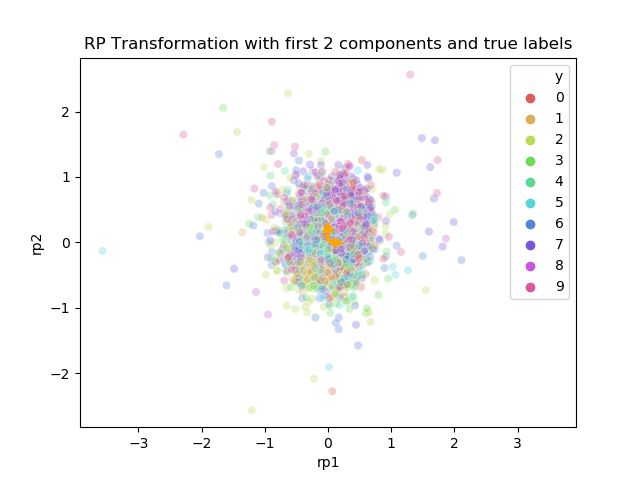
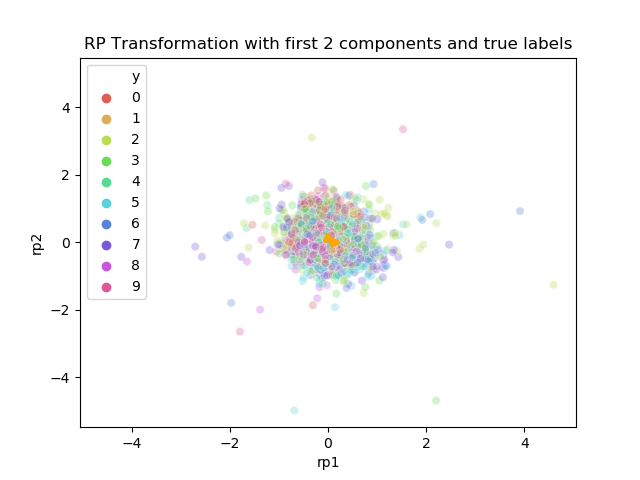
Modify clusters visualizations

diff --git a/Unsupervised_Learning/run_experiments.py b/Unsupervised_Learning/run_experiments.py
@@ -175,8 +175,8 @@ def dimensionality_reduction(x_train, x_test, y_train, **kwargs):
 
     clustering(x_pca[0], x_pca[1], y_train, y_test,
                dataset=dataset + '_pca_reduced',
-               kmeans_n_clusters=kwargs['kmeans_n_clusters'],
-               em_n_clusters=kwargs['em_n_clusters'], em_covariance=kwargs['em_covariance'],
+               kmeans_n_clusters=kwargs['pca_kmeans_n_clusters'],
+               em_n_clusters=kwargs['pca_em_n_clusters'], em_covariance=kwargs['pca_em_covariance'],
                perform_model_complexity=kwargs['perform_model_complexity'])
 
     print('\n--------------------------')
@@ -188,8 +188,8 @@ def dimensionality_reduction(x_train, x_test, y_train, **kwargs):
 
     clustering(x_ica[0], x_ica[1], y_train, y_test,
                dataset=dataset + '_ica_reduced',
-               kmeans_n_clusters=kwargs['kmeans_n_clusters'],
-               em_n_clusters=kwargs['em_n_clusters'], em_covariance=kwargs['em_covariance'],
+               kmeans_n_clusters=kwargs['ica_kmeans_n_clusters'],
+               em_n_clusters=kwargs['ica_em_n_clusters'], em_covariance=kwargs['ica_em_covariance'],
                perform_model_complexity=kwargs['perform_model_complexity'])
 
     print('\n--------------------------')
@@ -201,8 +201,8 @@ def dimensionality_reduction(x_train, x_test, y_train, **kwargs):
 
     clustering(x_kpca[0], x_kpca[1], y_train, y_test,
                dataset=dataset + '_kpca_reduced',
-               kmeans_n_clusters=kwargs['kmeans_n_clusters'],
-               em_n_clusters=kwargs['em_n_clusters'], em_covariance=kwargs['em_covariance'],
+               kmeans_n_clusters=kwargs['kpca_kmeans_n_clusters'],
+               em_n_clusters=kwargs['kpca_em_n_clusters'], em_covariance=kwargs['kpca_em_covariance'],
                perform_model_complexity=kwargs['perform_model_complexity'])
 
     print('\n--------------------------')
@@ -214,8 +214,8 @@ def dimensionality_reduction(x_train, x_test, y_train, **kwargs):
 
     clustering(x_rp[0], x_rp[1], y_train, y_test,
                dataset=dataset + '_rp_reduced',
-               kmeans_n_clusters=kwargs['kmeans_n_clusters'],
-               em_n_clusters=kwargs['em_n_clusters'], em_covariance=kwargs['em_covariance'],
+               kmeans_n_clusters=kwargs['rp_kmeans_n_clusters'],
+               em_n_clusters=kwargs['rp_em_n_clusters'], em_covariance=kwargs['rp_em_covariance'],
                perform_model_complexity=kwargs['perform_model_complexity'])
 
 
@@ -226,39 +226,43 @@ if __name__ == "__main__":
     dataset = 'WDBC'
     x_train, x_test, y_train, y_test = load_dataset(dataset)
 
-    # clustering(x_train, x_test, y_train, y_test,
-    #            dataset=dataset,
-    #            kmeans_n_clusters=2,
-    #            em_n_clusters=2, em_covariance='full',
-    #            perform_model_complexity=False)
+    clustering(x_train, x_test, y_train, y_test,
+               dataset=dataset,
+               kmeans_n_clusters=2,
+               em_n_clusters=2, em_covariance='full',
+               perform_model_complexity=False)
 
     dimensionality_reduction(x_train, x_test, y_train,
                              dataset=dataset,
-                             pca_n_components=10,
-                             ica_n_components=12,
-                             rp_n_components=20,
-                             kpca_n_components=10, kpca_kernel='cosine',
-                             kmeans_n_clusters=2,
-                             em_n_clusters=2, em_covariance='full',
-                             perform_model_complexity=True)
+                             pca_n_components=10, pca_kmeans_n_clusters=2,
+                             pca_em_n_clusters=4, pca_em_covariance='diag',
+                             ica_n_components=12, ica_kmeans_n_clusters=2,
+                             ica_em_n_clusters=5, ica_em_covariance='diag',
+                             kpca_n_components=10, kpca_kernel='cosine', kpca_kmeans_n_clusters=2,
+                             kpca_em_n_clusters=4, kpca_em_covariance='diag',
+                             rp_n_components=20, rp_kmeans_n_clusters=2,
+                             rp_em_n_clusters=3, rp_em_covariance='full',
+                             perform_model_complexity=False)
 
     # Run experiment 2 on MNIST
     print('\n--------------------------')
     dataset = 'MNIST'
     x_train, x_test, y_train, y_test = load_dataset(dataset)
 
-    # clustering(x_train, x_test, y_train, y_test,
-    #            dataset=dataset,
-    #            kmeans_n_clusters=2,
-    #            em_n_clusters=10, em_covariance='diag',
-    #            perform_model_complexity=False)
+    clustering(x_train, x_test, y_train, y_test,
+               dataset=dataset,
+               kmeans_n_clusters=2,
+               em_n_clusters=10, em_covariance='diag',
+               perform_model_complexity=False)
 
     dimensionality_reduction(x_train, x_test, y_train,
                              dataset=dataset,
-                             pca_n_components=250,
-                             ica_n_components=320,
-                             rp_n_components=500,
-                             kpca_n_components=250, kpca_kernel='sigmoid',
-                             kmeans_n_clusters=2,
-                             em_n_clusters=10, em_covariance='diag',
-                             perform_model_complexity=True)
+                             pca_n_components=260, pca_kmeans_n_clusters=2,
+                             pca_em_n_clusters=6, pca_em_covariance='full',
+                             ica_n_components=320, ica_kmeans_n_clusters=2,
+                             ica_em_n_clusters=10, ica_em_covariance='diag',
+                             kpca_n_components=260, kpca_kernel='poly', kpca_kmeans_n_clusters=2,
+                             kpca_em_n_clusters=3, kpca_em_covariance='full',
+                             rp_n_components=400, rp_kmeans_n_clusters=2,
+                             rp_em_n_clusters=2, rp_em_covariance='full',
+                             perform_model_complexity=False)

diff --git a/Unsupervised_Learning/clustering.py b/Unsupervised_Learning/clustering.py
@@ -9,6 +9,7 @@ import utils
 
 from abc import ABC, abstractmethod
 
+from sklearn.base import clone
 from sklearn.cluster import KMeans
 from sklearn.decomposition import PCA
 from sklearn.manifold import TSNE
@@ -19,12 +20,13 @@ from sklearn.mixture import GaussianMixture
 
 class Clustering(ABC):
 
-    def __init__(self, name, n_clusters, max_n_clusters, random_seed):
+    def __init__(self, name, n_clusters, max_n_clusters, name_param, random_seed):
         self.name = name
         self.model = None
         self.clusters = None
         self.n_clusters = n_clusters
         self.max_n_clusters = max_n_clusters
+        self.name_param = name_param
         self.random_seed = random_seed
 
     @staticmethod
@@ -58,7 +60,7 @@ class Clustering(ABC):
 
     def train(self, x, y):
 
-        print('\nTrain on training set')
+        print('\nTrain on training set with k={}'.format(self.n_clusters))
         self.clusters = self.model.fit_predict(x)
         self.benchmark(x, y, self.clusters)
 
@@ -70,13 +72,24 @@ class Clustering(ABC):
         tsne = TSNE(n_components=2, random_state=self.random_seed)
         x_tsne = tsne.fit_transform(x)
 
+        n_classes = len(np.unique(y))
+
+        model = clone(self.model)
+        model_params = self.model.get_params()
+        model_params[self.name_param] = n_classes
+        model.set_params(**model_params)
+        print('\nBenchmark Model with k={}'.format(n_classes))
+        clusters = model.fit_predict(x)
+        self.benchmark(x, y, clusters)
+
         df = pd.DataFrame(x_tsne, columns=['tsne1', 'tsne2'])
         df['pca1'] = x_pca[:, 0]
         df['pca2'] = x_pca[:, 1]
         df['y'] = y
+        df['true c'] = clusters
         df['c'] = self.clusters
 
-        fig, (ax1, ax2) = plt.subplots(2, 2, figsize=(12, 8))
+        fig, (ax1, ax2) = plt.subplots(2, 3, figsize=(15, 8))
 
         utils.plot_clusters(ax1, 'pca1', 'pca2', df, y, self.name)
         utils.plot_clusters(ax2, 'tsne1', 'tsne2', df, y, self.name)
@@ -86,8 +99,8 @@ class Clustering(ABC):
 class KMeansClustering(Clustering):
     
     def __init__(self,  n_clusters=2, max_n_clusters=10, random_seed=42):
-        super(KMeansClustering, self).__init__(name='k-means', n_clusters=n_clusters,
-                                               max_n_clusters=max_n_clusters, random_seed=random_seed)
+        super(KMeansClustering, self).__init__(name='k-means', n_clusters=n_clusters, max_n_clusters=max_n_clusters,
+                                               name_param='n_clusters', random_seed=random_seed)
 
         self.model = KMeans(n_clusters=n_clusters, init='k-means++', max_iter=1000, random_state=random_seed, n_jobs=-1)
 
@@ -162,8 +175,8 @@ class KMeansClustering(Clustering):
 class MixtureOfGaussians(Clustering):
     
     def __init__(self, n_clusters=2, covariance='full', max_n_clusters=10, random_seed=42):
-        super(MixtureOfGaussians, self).__init__(name='em', n_clusters=n_clusters,
-                                                 max_n_clusters=max_n_clusters, random_seed=random_seed)
+        super(MixtureOfGaussians, self).__init__(name='em', n_clusters=n_clusters, max_n_clusters=max_n_clusters,
+                                                 name_param='n_components', random_seed=random_seed)
 
         self.model = GaussianMixture(n_components=n_clusters, covariance_type=covariance, max_iter=1000,
                                      n_init=10, init_params='random', random_state=random_seed)

diff --git a/Unsupervised_Learning/utils.py b/Unsupervised_Learning/utils.py
@@ -8,22 +8,33 @@ IMAGE_DIR = 'images/'
 
 
 def plot_clusters(ax, component1, component2, df, y, name):
-    c_colors = sns.color_palette('hls', len(np.unique(df['c'])))
-    y_colors = sns.color_palette('hls', len(np.unique(y)))
+
+    n_classes = len(np.unique(y))
+    n_clusters = len(np.unique(df['c']))
+
+    y_colors = sns.color_palette('hls', n_classes)
+    c_colors = sns.color_palette('hls', n_clusters)
 
     sns.scatterplot(x=component1, y=component2, hue='y', palette=y_colors, data=df, legend='full', alpha=0.3, ax=ax[0])
-    sns.scatterplot(x=component1, y=component2, hue='c', palette=c_colors, data=df, legend='full', alpha=0.3, ax=ax[1])
+    sns.scatterplot(x=component1, y=component2, hue='true c', palette=y_colors, data=df, legend='full', alpha=0.3, ax=ax[1])
+    sns.scatterplot(x=component1, y=component2, hue='c', palette=c_colors, data=df, legend='full', alpha=0.3, ax=ax[2])
 
-    ax[0].set_title('True Clusters represented with {}'.format(component1[:-1].upper()))
-    ax[1].set_title('{} Clusters represented with {}'.format(name.upper(), component1[:-1].upper()))
+    name = name.upper()
+    transform = component1[:-1].upper()
+
+    ax[0].set_title('True Clusters represented with {}'.format(transform))
+    ax[1].set_title('{} Clusters represented with {} and k = {}'.format(name, transform, n_classes))
+    ax[2].set_title('{} Clusters represented with {} and k = {}'.format(name, transform, n_clusters))
 
     xlim = 1.1 * np.max(np.abs(df[component1]))
-    ylim = 1.1 * np.max(np.abs(df[component2]))
-
     ax[0].set_xlim(-xlim, xlim)
     ax[1].set_xlim(-xlim, xlim)
+    ax[2].set_xlim(-xlim, xlim)
+
+    ylim = 1.1 * np.max(np.abs(df[component2]))
     ax[0].set_ylim(-ylim, ylim)
     ax[1].set_ylim(-ylim, ylim)
+    ax[2].set_ylim(-ylim, ylim)
 
 
 def plot_components(component1, component2, df, y, name):
